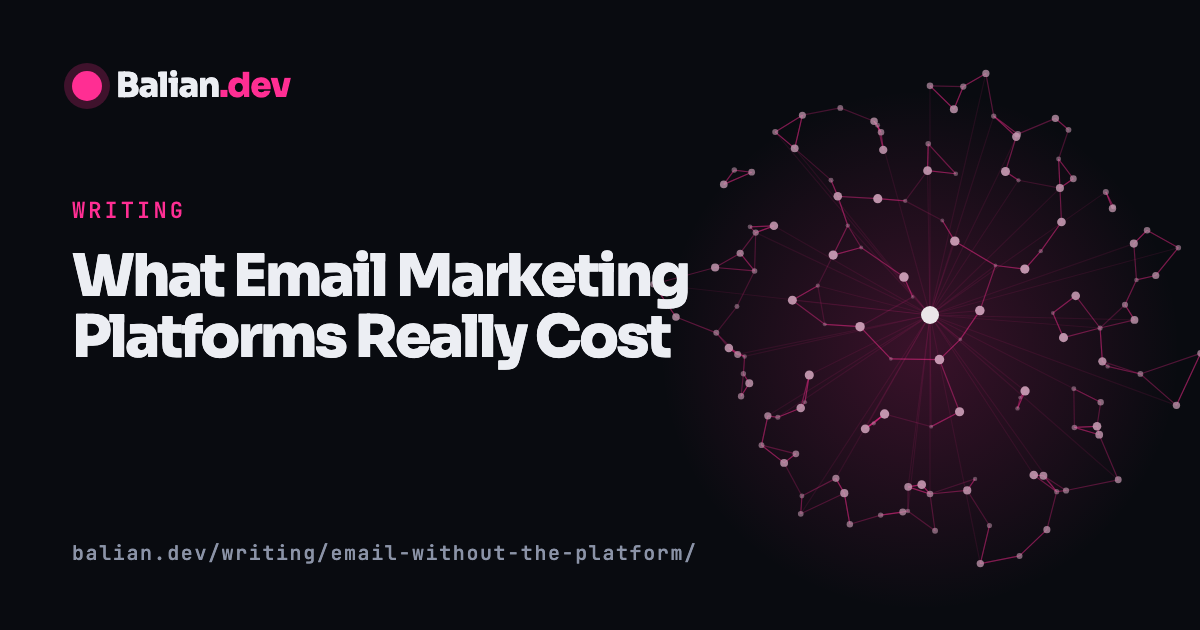
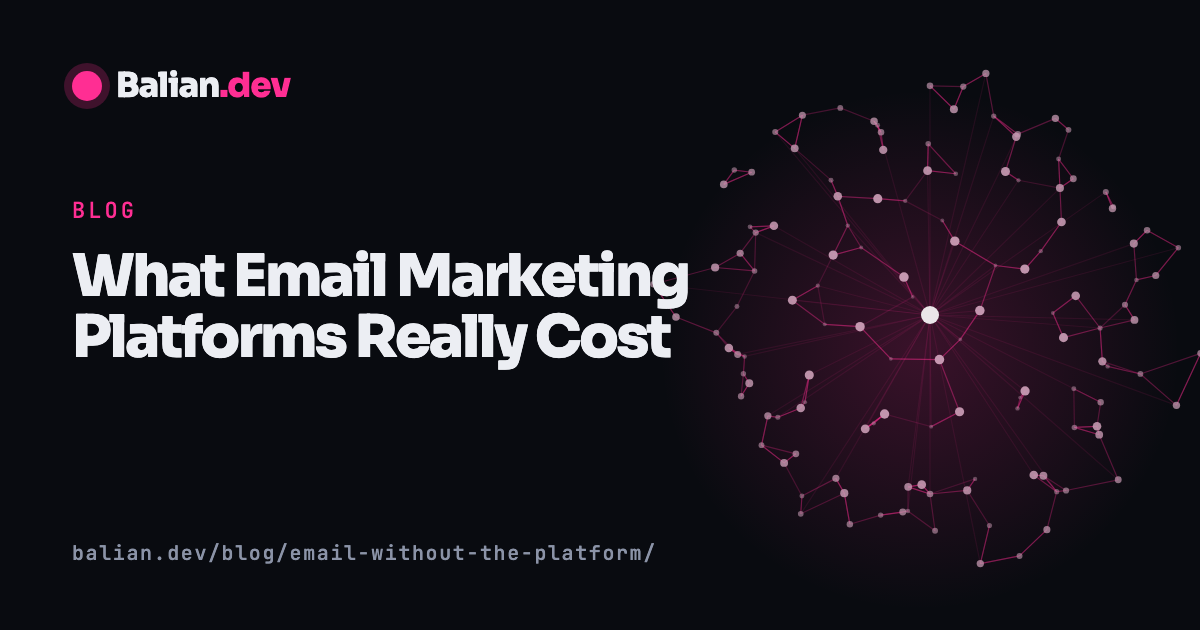
Writing renamed to Blog: /blog/ with redirects from /writing/

Changed region(s): [[0.185, 0.8444, 0.5858, 0.9048], [0.0617, 0.3016, 0.1542, 0.3619]]

diff --git a/src/content.config.ts b/src/content.config.ts
@@ -1,12 +1,12 @@
-// Content collections. `writing` is the blog: one Markdown file per post in src/content/writing.
+// Content collections. `blog`: one Markdown file per post in src/content/blog.
 // Title and meta description for each post live in src/data/seo.ts under the post's slug, like every other page.
 import { defineCollection, z } from "astro:content";
 import { glob } from "astro/loaders";
 
 const link = z.object({ label: z.string(), href: z.string() });
 
-const writing = defineCollection({
-  loader: glob({ pattern: "**/*.md", base: "./src/content/writing" }),
+const blog = defineCollection({
+  loader: glob({ pattern: "**/*.md", base: "./src/content/blog" }),
   schema: z.object({
     title: z.string(), // the H1
     summary: z.string(), // the lede on the post and the blurb on the index
@@ -18,4 +18,4 @@ const writing = defineCollection({
   }),
 });
 
-export const collections = { writing };
+export const collections = { blog };

diff --git a/scripts/lint-copy.ts b/scripts/lint-copy.ts
@@ -41,8 +41,8 @@ for (const [id, { h1, lede }] of Object.entries(copy)) {
   if (/[—–]/.test(lede)) problems.push("dash");
   if (/!/.test(lede)) problems.push("exclamation mark");
   if (countOpener.test(lede)) problems.push("opens by counting the page's own sections");
-  // "solutions" is banned as marketing filler; the writing lede uses it in its plain sense, in Pierre's own words.
-  for (const b of banned) if (lower.includes(b) && !(id === "writing" && b === "solutions")) problems.push(`banned phrase: "${b}"`);
+  // "solutions" is banned as marketing filler; the blog lede uses it in its plain sense, in Pierre's own words.
+  for (const b of banned) if (lower.includes(b) && !(id === "blog" && b === "solutions")) problems.push(`banned phrase: "${b}"`);
 
   const h = new Set(content(h1));
   const l = content(lede);

diff --git a/src/data/seo.ts b/src/data/seo.ts
@@ -88,9 +88,9 @@ export const seo: Record<string, Seo> = {
     description: "A 13-stage web design process with six approval gates: styleframes, a design system you approve, content written for you, and two revision rounds.",
     keyword: "web design process",
   },
-  writing: {
-    title: "Writing on Web Engineering and Business Systems",
-    description: "Writing on web engineering and the business systems around it: ERP and CRM costs, email marketing, Astro and Cloudflare, process and dashboards.",
+  blog: {
+    title: "Blog on Web Engineering and Business Systems",
+    description: "A blog on web engineering and the business systems around it: ERP and CRM costs, email marketing, Astro and Cloudflare, process and dashboards.",
     keyword: "web engineering",
   },
   "erp-crm-bloatware": {

diff --git a/src/styles/global.css b/src/styles/global.css
@@ -563,7 +563,7 @@ label.inline { display: grid; grid-template-columns: 110px minmax(0, 1fr); gap: 
 .accept { margin-top: 48px; padding-top: 32px; border-top: 1px solid var(--line); }
 @media (max-width: 800px) { .grid2 { grid-template-columns: minmax(0, 1fr); } .rows li { grid-template-columns: minmax(0, 1fr); } .rows li > .arow { justify-self: start; } label.inline { grid-template-columns: minmax(0, 1fr); } }
 
-/* writing: the index list and the article body (Markdown from src/content/writing) */
+/* blog: the index list and the article body (Markdown from src/content/blog) */
 .posts { list-style: none; margin: 0; padding: 0; max-width: 72ch; }
 .posts li { padding-block: 34px; border-bottom: 1px solid var(--line); display: grid; gap: 12px; }
 .posts li:first-child { padding-top: 0; }

diff --git a/src/lib/schema.ts b/src/lib/schema.ts
@@ -94,8 +94,8 @@ export const collectionPage = (items: { name: string; path: string }[]) => ({
 export const blog = (posts: { name: string; path: string }[]) => ({
   "@context": "https://schema.org",
   "@type": "Blog",
-  name: `${site.brand} writing`,
-  url: abs("/writing/"),
+  name: `${site.brand} blog`,
+  url: abs("/blog/"),
   author: { "@type": "Person", name: site.name },
   blogPost: posts.map((p) => ({ "@type": "BlogPosting", headline: p.name, url: abs(p.path) })),
 });

diff --git a/src/data/ledes.ts b/src/data/ledes.ts
@@ -68,7 +68,7 @@ export const copy: Record<string, PageCopy> = {
     h1: "A process with your sign-off at every gate.",
     lede: "Every project follows the same thirteen steps, and nothing moves forward without your okay at six of them. Design comes first, before any code.",
   },
-  writing: {
+  blog: {
     h1: "Ramblings",
     lede: "The same stupid mistakes I see companies make over and over again. And the cool solutions I have found over the years.",
   },

diff --git a/src/data/site.ts b/src/data/site.ts
@@ -43,7 +43,7 @@ export const nav: NavItem[] = [
     ],
   },
   { label: "Work", href: "/work/" },
-  { label: "Writing", href: "/writing/" },
+  { label: "Blog", href: "/blog/" },
   { label: "Process", href: "/process/" },
   { label: "About", href: "/about/" },
   { label: "Contact", href: "/contact/" },
